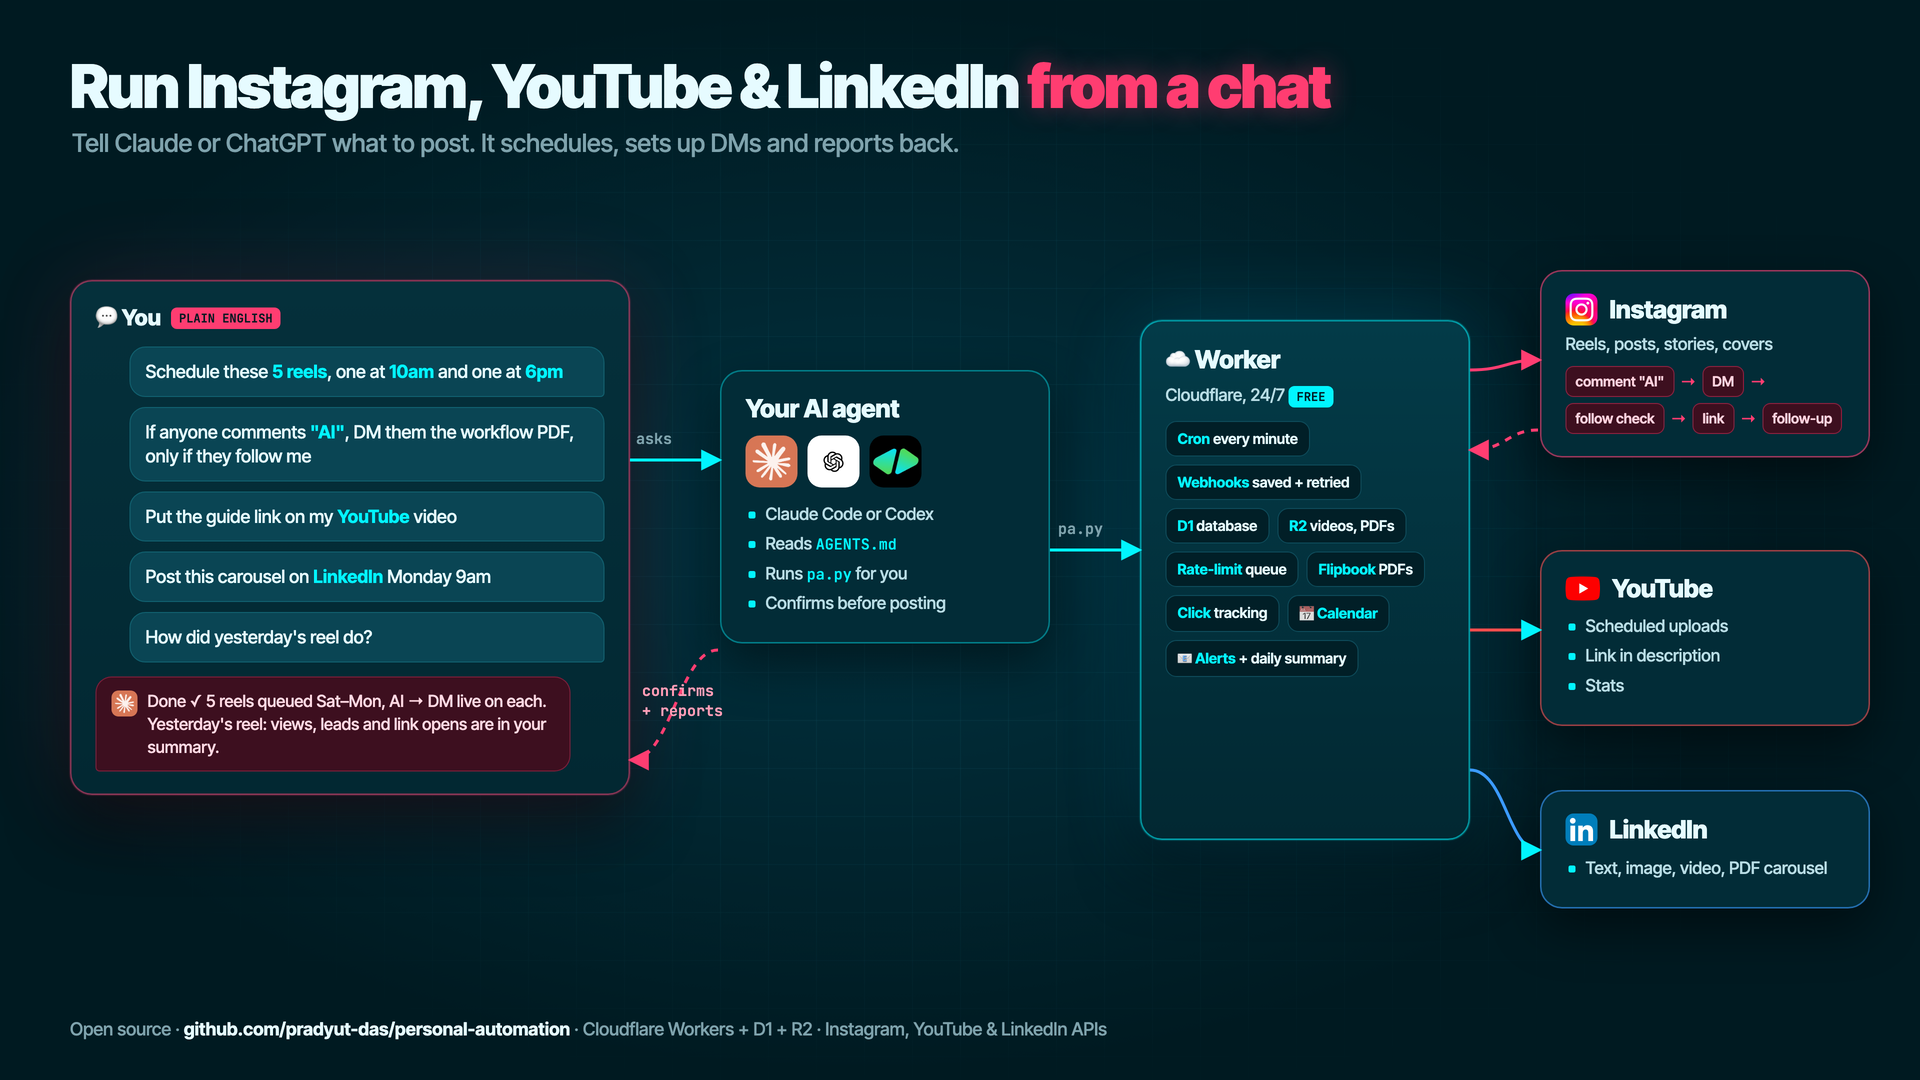
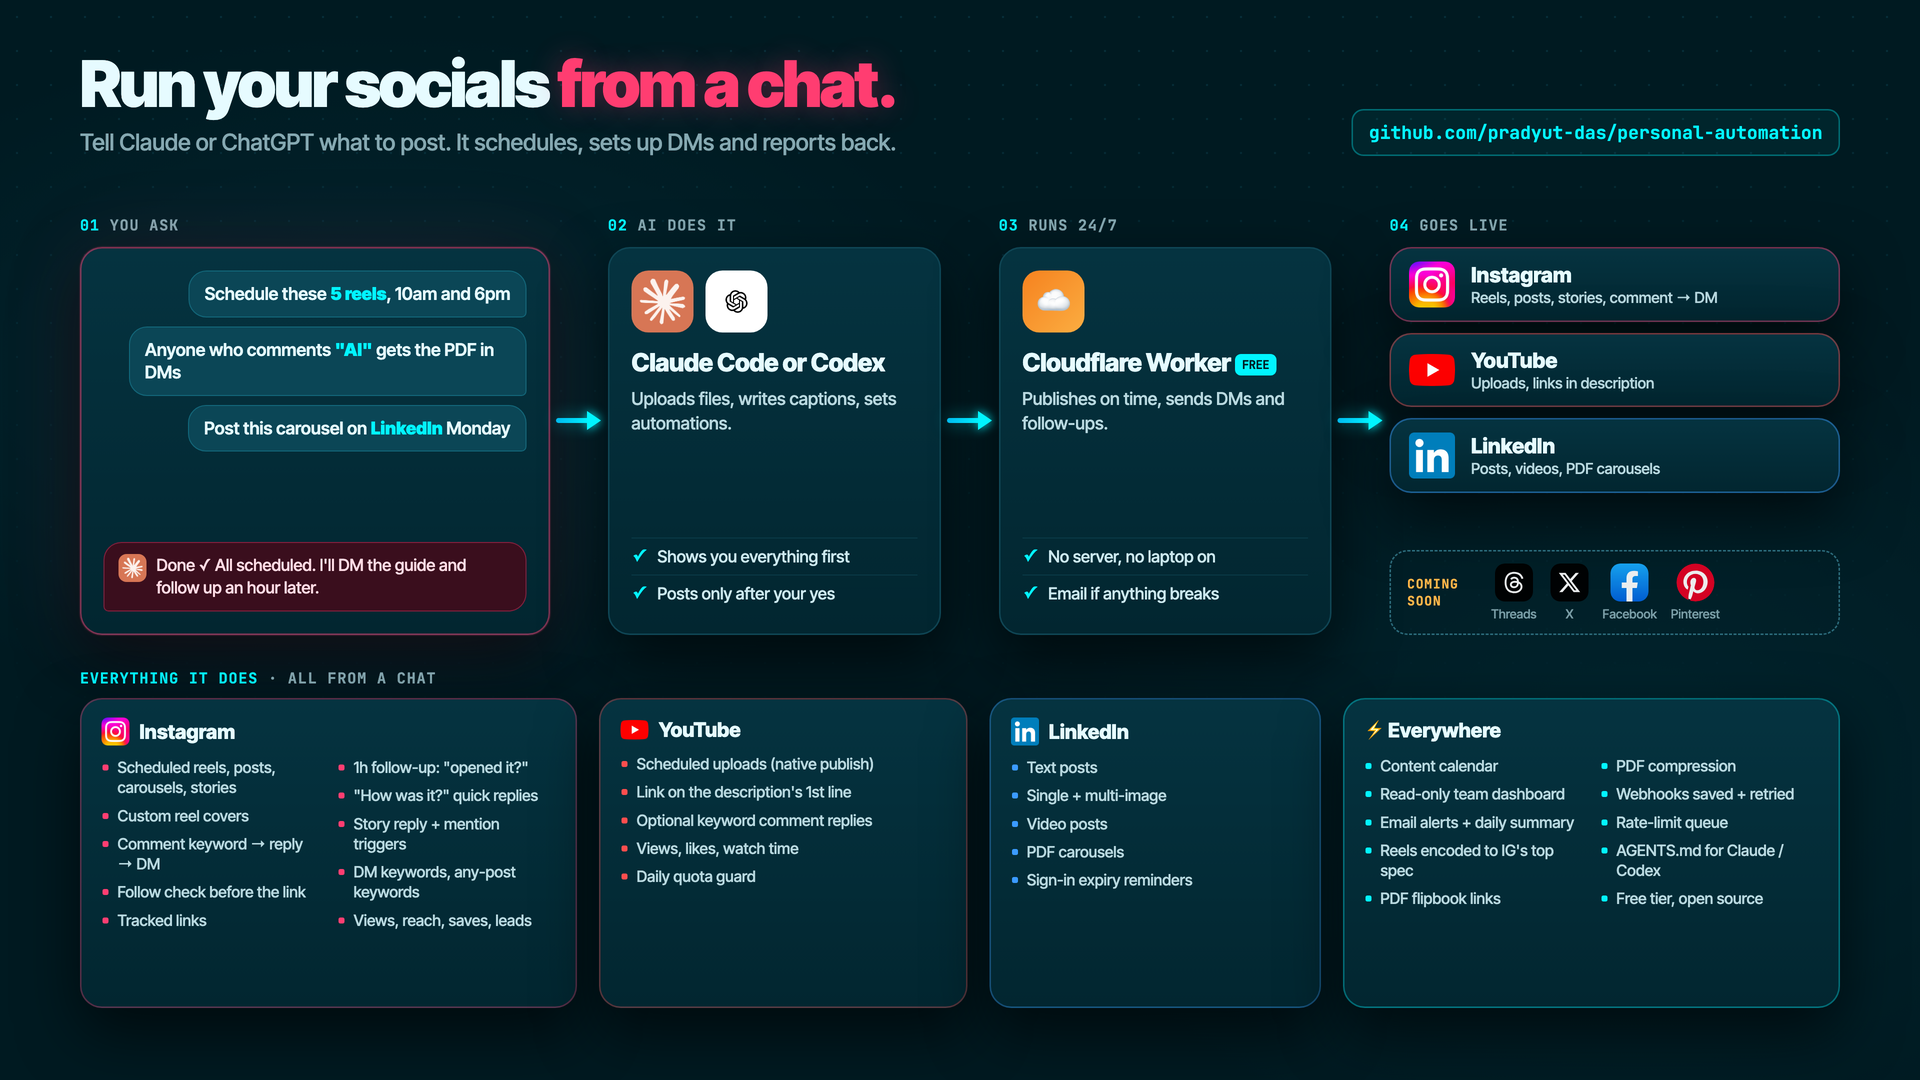
Flowchart: four-step chat flow, full feature list, coming soon (Threads, X, Facebook, Pinterest)
README gets a Coming soon section with the four planned platforms.

diff --git a/docs/flowchart.html b/docs/flowchart.html
@@ -1,123 +1,152 @@
 <!doctype html>
 <html><head><meta charset="utf-8">
-<link href="https://fonts.googleapis.com/css2?family=Inter+Tight:wght@500;600;700;800;900&family=JetBrains+Mono:wght@500;600&display=block" rel="stylesheet">
+<link href="https://fonts.googleapis.com/css2?family=Inter+Tight:wght@500;600;700;800;900&family=JetBrains+Mono:wght@500;700&display=block" rel="stylesheet">
 <style>
-:root{--abyss:#001A21;--panel:#022C37;--line:#0E4B5A;--ice:#E6FBFF;--dim:#7FA3AD;--cyan:#00F5FF;--blue:#00BBF0;--pink:#FF3D71}
+:root{--bg:#001A21;--line:#0F4655;--ice:#E6FBFF;--dim:#86A9B2;--txt:#B9D9E0;--cyan:#00F5FF;--blue:#00BBF0;--pink:#FF3D71}
 *{box-sizing:border-box;margin:0}
-html,body{width:1920px;height:1080px;overflow:hidden;background:radial-gradient(1300px 760px at 45% 50%,#023341 0%,#001A21 70%);font-family:'Inter Tight',sans-serif;color:var(--ice)}
-.grid{position:absolute;inset:0;background-image:linear-gradient(#0E4B5A33 1px,transparent 1px),linear-gradient(90deg,#0E4B5A33 1px,transparent 1px);background-size:48px 48px;mask-image:radial-gradient(ellipse at center,#000 30%,transparent 75%)}
-h1{position:absolute;left:70px;top:50px;font-size:60px;font-weight:900;letter-spacing:-.03em}
-h1 em{font-style:normal;color:var(--pink);text-shadow:0 0 26px #FF3D7166}
-.sub{position:absolute;left:72px;top:128px;font-size:25px;color:var(--dim);font-weight:500}
-.box{position:absolute;background:var(--panel);border:1.5px solid var(--line);border-radius:22px;padding:22px 24px;box-shadow:0 20px 50px #0007}
-.box h2{font-size:25px;font-weight:800;letter-spacing:-.01em;display:flex;align-items:center;gap:12px}
-.box p,.box li{font-size:17px;line-height:1.45;color:#B9DDE5}
-.box ul{list-style:none;padding:0;margin-top:10px}
-.box li{padding-left:20px;position:relative;margin:5px 0}
-.box li::before{content:"";position:absolute;left:3px;top:10px;width:7px;height:7px;border-radius:2px;background:var(--cyan)}
-code{font:500 15px 'JetBrains Mono',monospace;color:var(--cyan)}
-.chat{border-color:#FF3D7188;box-shadow:0 0 0 1px #FF3D7122,0 0 90px #FF3D7122,0 30px 60px #0008;background:linear-gradient(180deg,#05303B,#022832)}
-.chat .head{display:flex;align-items:center;gap:10px;font-weight:800;font-size:22px;margin-bottom:14px}
-.chat .head .live{font:600 12px 'JetBrains Mono';color:#001A21;background:var(--pink);padding:3px 8px;border-radius:6px}
-.msg{font-size:18px;line-height:1.35;padding:12px 15px;border-radius:16px 16px 4px 16px;background:#0A4554;border:1px solid #11606F;margin:10px 0 10px 34px;color:var(--ice)}
-.msg b{color:var(--cyan);font-weight:700}
-.bot{font-size:16.5px;line-height:1.4;padding:12px 15px;border-radius:16px 16px 16px 4px;background:#3D0F1F;border:1px solid #FF3D7155;margin:14px 34px 0 0;color:#FFD9E3;display:flex;gap:10px;align-items:flex-start}
-.bot img{width:26px;height:26px;border-radius:7px;flex:none;margin-top:1px}
-.agent{border-color:#00F5FF66}
-.icons{display:flex;gap:10px;margin:4px 0 14px}
-.icons img{width:52px;height:52px;border-radius:14px;object-fit:contain;background:#fff;padding:6px}
-.icons img.full{padding:0;background:none}
-.worker{border-color:#00F5FF88;box-shadow:0 0 0 1px #00F5FF22,0 0 80px #00BBF033,0 30px 60px #0008;background:linear-gradient(180deg,#033B48,#022832)}
-.tag{font:600 12px 'JetBrains Mono',monospace;color:var(--abyss);background:var(--cyan);border-radius:6px;padding:3px 8px}
-.chips{display:flex;flex-wrap:wrap;gap:8px;margin-top:14px}
-.chip{font:600 14.5px 'Inter Tight';padding:8px 11px;border-radius:11px;background:#011F27;border:1px solid var(--line);color:var(--ice)}
-.chip b{color:var(--cyan);font-weight:700}
-.plat h2 img{height:32px;width:auto;border-radius:8px}
-.plat.yt h2 img{height:24px;border-radius:0}
-.ig{border-color:#FF3D7199}.yt{border-color:#FF4D4D99}.li{border-color:#3B9BFF99}
-.flow{display:flex;flex-wrap:wrap;align-items:center;gap:6px;margin-top:10px}
-.step{font:600 14px 'Inter Tight';padding:6px 9px;border-radius:8px;background:#3D0F1F;border:1px solid #FF3D7166;color:#FFD2DE}
-.ar{color:var(--pink);font-weight:800}
-svg{position:absolute;inset:0;pointer-events:none}
-.box{translate:0 70px}
-.lbl{font:600 15px 'JetBrains Mono',monospace;fill:var(--dim)}
-.foot{position:absolute;left:70px;bottom:40px;font-size:18px;color:var(--dim)}
-.foot b{color:var(--ice)}
+html,body{width:1920px;height:1080px;overflow:hidden;font-family:'Inter Tight',sans-serif;color:var(--ice);
+  background:radial-gradient(900px 500px at 20% 35%,#05374566,transparent 70%),radial-gradient(900px 600px at 85% 70%,#05374555,transparent 70%),var(--bg)}
+.dots{position:absolute;inset:0;background-image:radial-gradient(#0F465577 1.2px,transparent 1.2px);background-size:34px 34px;mask-image:linear-gradient(#000,transparent 70%)}
+.card{background:linear-gradient(180deg,#053340,#022630);border:1.5px solid var(--line);border-radius:22px;box-shadow:0 24px 60px #0009}
+
+header{position:absolute;left:80px;top:52px;right:80px;display:flex;justify-content:space-between;align-items:flex-end}
+h1{font-size:64px;font-weight:900;letter-spacing:-.035em;line-height:1}
+h1 em{font-style:normal;color:var(--pink);text-shadow:0 0 30px #FF3D7155}
+.sub{margin-top:12px;font-size:23px;color:var(--dim);font-weight:500}
+.repo{font:600 18px 'JetBrains Mono',monospace;color:var(--cyan);border:1.5px solid #00F5FF55;border-radius:12px;padding:10px 16px;background:#00F5FF0d}
+
+/* ---------- flow row ---------- */
+.flow{position:absolute;left:80px;right:80px;top:215px;height:420px;display:grid;grid-template-columns:1.2fr 0.85fr 0.85fr 1.15fr;gap:58px}
+.col{display:flex;flex-direction:column;min-height:0}
+.step{font:700 15px 'JetBrains Mono',monospace;color:var(--cyan);letter-spacing:.06em;margin-bottom:12px}
+.step span{color:var(--dim)}
+.col > .card{flex:1;padding:22px;display:flex;flex-direction:column}
+h3{font-size:25px;font-weight:800;letter-spacing:-.015em;line-height:1.15}
+.col p{font-size:17.5px;line-height:1.42;color:var(--txt);margin-top:9px}
+.chat{border-color:#FF3D7180;box-shadow:0 0 0 1px #FF3D7120,0 0 90px #FF3D711c,0 24px 60px #0009}
+.bubble{align-self:flex-end;max-width:94%;font-size:17.5px;line-height:1.3;font-weight:600;padding:11px 15px;border-radius:18px 18px 5px 18px;background:#0B4656;border:1px solid #13677A;margin-bottom:9px}
+.bubble b{color:var(--cyan)}
+.reply{margin-top:auto;display:flex;gap:10px;align-items:flex-start;font-size:16.5px;line-height:1.38;padding:11px 14px;border-radius:18px 18px 18px 5px;background:#3A0E1D;border:1px solid #FF3D7160;color:#FFDCE5}
+.reply img{width:28px;height:28px;border-radius:8px;flex:none}
+.logos{display:flex;gap:12px;margin-bottom:16px}
+.logos img{width:62px;height:62px;border-radius:17px;object-fit:contain}
+.logos .w{background:#fff;padding:9px}
+.cf{width:62px;height:62px;border-radius:17px;background:linear-gradient(135deg,#F6821F,#FBAD41);display:flex;align-items:center;justify-content:center;font-size:34px;margin-bottom:16px}
+.free{display:inline-block;font:700 12px 'JetBrains Mono';color:var(--bg);background:var(--cyan);border-radius:6px;padding:3px 7px;vertical-align:middle}
+.ticks{list-style:none;padding:0;margin-top:auto}
+.ticks li{font-size:16.5px;color:#CDE9EF;padding:8px 0 8px 26px;position:relative;border-top:1px solid #0F465599}
+.ticks li::before{content:"✓";position:absolute;left:1px;top:7px;color:var(--cyan);font-weight:800}
+.plats{display:flex;flex-direction:column;gap:11px;flex:1}
+.plat{display:flex;align-items:center;gap:16px;padding:13px 18px}
+.plat img{width:46px;height:46px;object-fit:contain;flex:none}
+.plat img.yt{height:33px}
+.plat b{display:block;font-size:21px;font-weight:800}
+.plat span{font-size:15px;color:var(--txt)}
+.plat.ig{border-color:#FF3D7170}.plat.yt2{border-color:#FF4D4D70}.plat.li{border-color:#3B9BFF70}
+.soon{margin-top:auto;border:1.5px dashed #2B6B7B;border-radius:18px;padding:12px 16px;display:flex;align-items:center;gap:14px}
+.soon .lbl{font:700 13px 'JetBrains Mono';color:#FFB547;letter-spacing:.06em;line-height:1.3;width:70px}
+.soon .ic{display:flex;gap:14px}
+.soon figure{display:flex;flex-direction:column;align-items:center;gap:5px;font-size:12.5px;color:var(--dim);opacity:.92}
+.soon img{width:38px;height:38px;border-radius:10px}
+.soon img.round{border-radius:50%}
+.arrow{position:absolute;top:418px;height:5px;border-radius:5px;background:linear-gradient(90deg,#00BBF0,#00F5FF);box-shadow:0 0 16px #00F5FF88}
+.arrow::after{content:"";position:absolute;right:-9px;top:-7px;border-left:14px solid #00F5FF;border-top:9.5px solid transparent;border-bottom:9.5px solid transparent;filter:drop-shadow(0 0 5px #00F5FF)}
+
+/* ---------- features ---------- */
+.fhead{position:absolute;left:80px;top:668px;font:700 15px 'JetBrains Mono',monospace;color:var(--cyan);letter-spacing:.06em}
+.fhead span{color:var(--dim)}
+.feats{position:absolute;left:80px;right:80px;top:698px;height:310px;display:grid;grid-template-columns:1.35fr 1fr 0.9fr 1.35fr;gap:22px}
+.feat{padding:18px 20px}
+.feat h4{display:flex;align-items:center;gap:10px;font-size:20px;font-weight:800;margin-bottom:8px}
+.feat h4 img{width:28px;height:28px;object-fit:contain}
+.feat h4 img.yt{height:20px}
+.feat ul{list-style:none;padding:0;columns:1}
+.feat.two ul{columns:2;column-gap:18px}
+.feat li{font-size:15.5px;line-height:1.3;color:var(--txt);padding:4px 0 4px 16px;position:relative;break-inside:avoid}
+.feat li::before{content:"";position:absolute;left:1px;top:11px;width:6px;height:6px;border-radius:2px;background:var(--cyan)}
+.feat.ig{border-color:#FF3D7155}.feat.ig li::before{background:var(--pink)}
+.feat.yt2{border-color:#FF4D4D55}.feat.yt2 li::before{background:#FF4D4D}
+.feat.li{border-color:#3B9BFF55}.feat.li li::before{background:#3B9BFF}
+.feat.all{border-color:#00F5FF55}
 </style></head><body>
-<div class="grid"></div>
-<h1>Run Instagram, YouTube &amp; LinkedIn <em>from a chat</em></h1>
-<div class="sub">Tell Claude or ChatGPT what to post. It schedules, sets up DMs and reports back.</div>
+<div class="dots"></div>
+<header>
+  <div><h1>Run your socials <em>from a chat.</em></h1>
+  <div class="sub">Tell Claude or ChatGPT what to post. It schedules, sets up DMs and reports back.</div></div>
+  <div class="repo">github.com/pradyut-das/personal-automation</div>
+</header>
 
-<div class="box chat" style="left:70px;top:210px;width:560px">
-  <div class="head">💬 You <span class="live">PLAIN ENGLISH</span></div>
-  <div class="msg">Schedule these <b>5 reels</b>, one at <b>10am</b> and one at <b>6pm</b></div>
-  <div class="msg">If anyone comments <b>"AI"</b>, DM them the workflow PDF, only if they follow me</div>
-  <div class="msg">Put the guide link on my <b>YouTube</b> video</div>
-  <div class="msg">Post this carousel on <b>LinkedIn</b> Monday 9am</div>
-  <div class="msg">How did yesterday's reel do?</div>
-  <div class="bot"><img src="icons/claude.png" alt=""><span>Done ✓ 5 reels queued Sat–Mon, AI → DM live on each. Yesterday's reel: views, leads and link opens are in your summary.</span></div>
-</div>
-
-<div class="box agent" style="left:720px;top:300px;width:330px">
-  <h2>Your AI agent</h2>
-  <div class="icons" style="margin-top:12px"><img class="full" src="icons/claude.png" alt="Claude"><img src="icons/chatgpt.png" alt="ChatGPT"><img class="full" src="icons/tool-green.png" alt=""></div>
-  <ul>
-    <li>Claude Code or Codex</li>
-    <li>Reads <code>AGENTS.md</code></li>
-    <li>Runs <code>pa.py</code> for you</li>
-    <li>Confirms before posting</li>
-  </ul>
-</div>
-
-<div class="box worker" style="left:1140px;top:250px;width:330px;height:520px">
-  <h2>☁ Worker</h2>
-  <p style="margin-top:6px">Cloudflare, 24/7 <span class="tag">FREE</span></p>
-  <div class="chips">
-    <span class="chip"><b>Cron</b> every minute</span>
-    <span class="chip"><b>Webhooks</b> saved + retried</span>
-    <span class="chip"><b>D1</b> database</span>
-    <span class="chip"><b>R2</b> videos, PDFs</span>
-    <span class="chip"><b>Rate-limit</b> queue</span>
-    <span class="chip"><b>Flipbook</b> PDFs</span>
-    <span class="chip"><b>Click</b> tracking</span>
-    <span class="chip">📅 <b>Calendar</b></span>
-    <span class="chip">📧 <b>Alerts</b> + daily summary</span>
+<div class="flow">
+  <div class="col">
+    <div class="step">01 <span>YOU ASK</span></div>
+    <div class="card chat">
+      <div class="bubble">Schedule these <b>5 reels</b>, 10am and 6pm</div>
+      <div class="bubble">Anyone who comments <b>"AI"</b> gets the PDF in DMs</div>
+      <div class="bubble">Post this carousel on <b>LinkedIn</b> Monday</div>
+      <div class="reply"><img src="icons/claude.png" alt=""><span>Done ✓ All scheduled. I'll DM the guide and follow up an hour later.</span></div>
+    </div>
+  </div>
+  <div class="col">
+    <div class="step">02 <span>AI DOES IT</span></div>
+    <div class="card">
+      <div class="logos"><img src="icons/claude.png" alt=""><img class="w" src="icons/chatgpt.png" alt=""></div>
+      <h3>Claude Code or Codex</h3>
+      <p>Uploads files, writes captions, sets automations.</p>
+      <ul class="ticks"><li>Shows you everything first</li><li>Posts only after your yes</li></ul>
+    </div>
+  </div>
+  <div class="col">
+    <div class="step">03 <span>RUNS 24/7</span></div>
+    <div class="card">
+      <div class="cf">☁</div>
+      <h3>Cloudflare Worker <span class="free">FREE</span></h3>
+      <p>Publishes on time, sends DMs and follow-ups.</p>
+      <ul class="ticks"><li>No server, no laptop on</li><li>Email if anything breaks</li></ul>
+    </div>
+  </div>
+  <div class="col">
+    <div class="step">04 <span>GOES LIVE</span></div>
+    <div class="plats">
+      <div class="card plat ig"><img src="icons/instagram.png" alt=""><div><b>Instagram</b><span>Reels, posts, stories, comment → DM</span></div></div>
+      <div class="card plat yt2"><img class="yt" src="icons/youtube.png" alt=""><div><b>YouTube</b><span>Uploads, links in description</span></div></div>
+      <div class="card plat li"><img src="icons/linkedin.png" alt=""><div><b>LinkedIn</b><span>Posts, videos, PDF carousels</span></div></div>
+      <div class="soon"><div class="lbl">COMING SOON</div><div class="ic">
+        <figure><img src="icons/threads.svg" alt=""><figcaption>Threads</figcaption></figure>
+        <figure><img src="icons/x.svg" alt=""><figcaption>X</figcaption></figure>
+        <figure><img src="icons/facebook.svg" alt=""><figcaption>Facebook</figcaption></figure>
+        <figure><img class="round" src="icons/pinterest.svg" alt=""><figcaption>Pinterest</figcaption></figure>
+      </div></div>
+    </div>
   </div>
 </div>
+<div class="arrow" id="a1"></div><div class="arrow" id="a2"></div><div class="arrow" id="a3"></div>
 
-<div class="box plat ig" style="left:1540px;top:200px;width:330px">
-  <h2><img src="icons/instagram.png" alt="">Instagram</h2>
-  <p style="margin-top:6px">Reels, posts, stories, covers</p>
-  <div class="flow"><span class="step">comment "AI"</span><span class="ar">→</span><span class="step">DM</span><span class="ar">→</span><span class="step">follow check</span><span class="ar">→</span><span class="step">link</span><span class="ar">→</span><span class="step">follow-up</span></div>
+<div class="fhead">EVERYTHING IT DOES <span>· ALL FROM A CHAT</span></div>
+<div class="feats">
+  <div class="card feat ig two"><h4><img src="icons/instagram.png" alt="">Instagram</h4><ul>
+    <li>Scheduled reels, posts, carousels, stories</li><li>Custom reel covers</li>
+    <li>Comment keyword → reply → DM</li><li>Follow check before the link</li>
+    <li>Tracked links</li><li>1h follow-up: "opened it?"</li>
+    <li>"How was it?" quick replies</li><li>Story reply + mention triggers</li>
+    <li>DM keywords, any-post keywords</li><li>Views, reach, saves, leads</li></ul></div>
+  <div class="card feat yt2"><h4><img class="yt" src="icons/youtube.png" alt="">YouTube</h4><ul>
+    <li>Scheduled uploads (native publish)</li><li>Link on the description's 1st line</li>
+    <li>Optional keyword comment replies</li><li>Views, likes, watch time</li><li>Daily quota guard</li></ul></div>
+  <div class="card feat li"><h4><img src="icons/linkedin.png" alt="">LinkedIn</h4><ul>
+    <li>Text posts</li><li>Single + multi-image</li><li>Video posts</li><li>PDF carousels</li><li>Sign-in expiry reminders</li></ul></div>
+  <div class="card feat all two"><h4>⚡ Everywhere</h4><ul>
+    <li>Content calendar</li><li>Read-only team dashboard</li>
+    <li>Email alerts + daily summary</li><li>Reels encoded to IG's top spec</li>
+    <li>PDF flipbook links</li><li>PDF compression</li>
+    <li>Webhooks saved + retried</li><li>Rate-limit queue</li>
+    <li>AGENTS.md for Claude / Codex</li><li>Free tier, open source</li></ul></div>
 </div>
-<div class="box plat yt" style="left:1540px;top:480px;width:330px">
-  <h2><img src="icons/youtube.png" alt="">YouTube</h2>
-  <ul><li>Scheduled uploads</li><li>Link in description</li><li>Stats</li></ul>
-</div>
-<div class="box plat li" style="left:1540px;top:720px;width:330px">
-  <h2><img src="icons/linkedin.png" alt="">LinkedIn</h2>
-  <ul><li>Text, image, video, PDF carousel</li></ul>
-</div>
-
-<svg viewBox="0 0 1920 1080">
-  <defs>
-    <marker id="c" viewBox="0 0 10 10" refX="8" refY="5" markerWidth="7" markerHeight="7" orient="auto-start-reverse"><path d="M0 0L10 5L0 10z" fill="#00F5FF"/></marker>
-    <marker id="p" viewBox="0 0 10 10" refX="8" refY="5" markerWidth="7" markerHeight="7" orient="auto-start-reverse"><path d="M0 0L10 5L0 10z" fill="#FF3D71"/></marker>
-  </defs>
-  <g transform="translate(0,70)">
-  <path d="M630 390 C 670 390, 680 390, 718 390" stroke="#00F5FF" stroke-width="3" fill="none" marker-end="url(#c)"/>
-  <text x="636" y="374" class="lbl">asks</text>
-  <path d="M718 580 C 680 580, 670 690, 632 690" stroke="#FF3D71" stroke-width="3" stroke-dasharray="7 7" fill="none" marker-end="url(#p)"/>
-  <text x="642" y="626" class="lbl" style="fill:#FF9DB6">confirms</text>
-  <text x="642" y="646" class="lbl" style="fill:#FF9DB6">+ reports</text>
-  <path d="M1050 480 C 1095 480, 1100 480, 1138 480" stroke="#00F5FF" stroke-width="3" fill="none" marker-end="url(#c)"/>
-  <text x="1058" y="464" class="lbl">pa.py</text>
-  <path d="M1470 300 C 1505 300, 1508 290, 1538 290" stroke="#FF3D71" stroke-width="3" fill="none" marker-end="url(#p)"/>
-  <path d="M1538 360 C 1508 360, 1505 380, 1472 380" stroke="#FF3D71" stroke-width="3" stroke-dasharray="7 7" fill="none" marker-end="url(#p)"/>
-  <path d="M1470 560 C 1505 560, 1508 560, 1538 560" stroke="#FF4D4D" stroke-width="3" fill="none" marker-end="url(#c)"/>
-  <path d="M1470 700 C 1505 700, 1508 780, 1538 780" stroke="#3B9BFF" stroke-width="3" fill="none" marker-end="url(#c)"/>
-  </g>
-</svg>
-
-<div class="foot">Open source · <b>github.com/pradyut-das/personal-automation</b> · Cloudflare Workers + D1 + R2 · Instagram, YouTube &amp; LinkedIn APIs</div>
+<script>
+  const cols = [...document.querySelectorAll('.flow .col')];
+  ['a1','a2','a3'].forEach((id, i) => {
+    const r1 = cols[i].getBoundingClientRect(), r2 = cols[i + 1].getBoundingClientRect();
+    const el = document.getElementById(id);
+    el.style.width = (r2.left - r1.right - 22) + 'px'; el.style.left = (r1.right + 6) + 'px';
+  });
+</script>
 </body></html>

diff --git a/README.md b/README.md
@@ -34,6 +34,16 @@ I built this with Claude to run my own accounts and replaced the paid tools I wa
 
 **Across all three:** a content calendar, a read-only team dashboard, email alerts (failed DMs, disconnected accounts, "need help" replies) and a daily summary.
 
+### Coming soon
+| | Platform | Planned |
+|---|---|---|
+| <img src="docs/icons/threads.svg" width="28"> | **Threads** | Scheduled text, image and video posts; keyword replies |
+| <img src="docs/icons/x.svg" width="28"> | **X (Twitter)** | Scheduled posts and threads with media |
+| <img src="docs/icons/facebook.svg" width="28"> | **Facebook Pages** | Scheduled posts and reels; comment → Messenger DM |
+| <img src="docs/icons/pinterest.svg" width="28"> | **Pinterest** | Scheduled pins to your boards |
+
+Same idea for each: you ask in the chat, and the agent schedules it through the same Worker and calendar.
+
 ### What the platforms don't allow (so this doesn't either)
 - **Instagram:** DMs only within 24 hours of the person's last message; one private reply per comment; ~200 automated DMs/hour. If another tool (ManyChat, SuperProfile, etc.) owns a conversation, you can't reply in it.
 - **YouTube:** no DMs; 10,000 API units/day (an upload costs 1,600, a comment reply 50). Uploads from an **unaudited** Google Cloud project stay private until Google approves the project.
